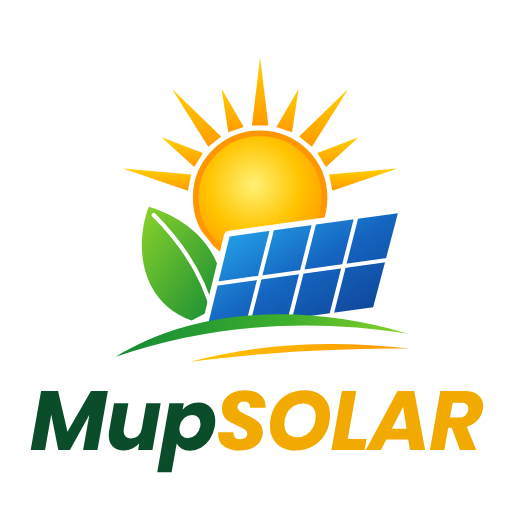
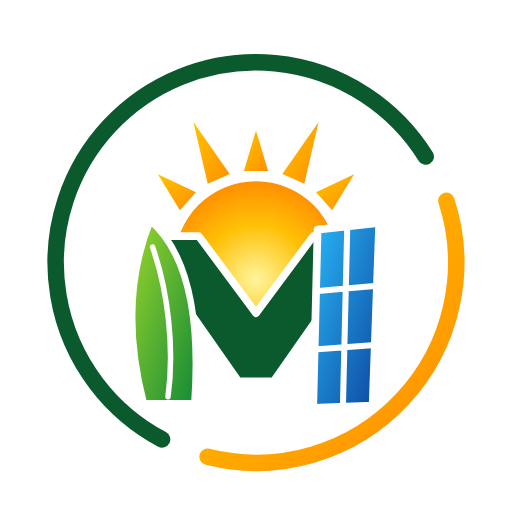
MupSOLAR : nouvel emblème « M » (feuille, soleil, panneau dans un cercle), icônes sans texte
Claude-Session: https://claude.ai/code/session_013pvrxBDhjZbfcs124f4vfK

diff --git a/installer.html b/installer.html
@@ -45,7 +45,7 @@ footer{text-align:center;color:var(--muted);font-size:14px;padding:20px 16px 40p
 </head>
 <body>
 <header>
-  <div class="lgc"><img class="lg" src="mupsolar-logo.webp" alt="MupSOLAR" width="900" height="300"></div>
+  <div class="lgc"><img class="lg" src="mupsolar-logo.webp" alt="MupSOLAR" width="300" height="300" style="width:150px;height:150px"></div>
   <h1>Installer MupSOLAR</h1>
   <p>Dimensionnement photovoltaïque · Android et iPhone · fonctionne sans Internet</p>
 </header>
